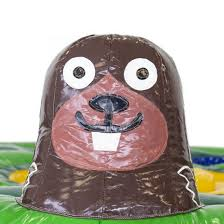
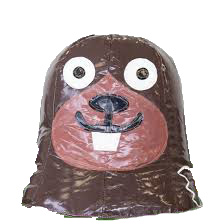
Images

diff --git a/website/css/style.css b/website/css/style.css
@@ -20,15 +20,18 @@ header{
     height: 120px;
 }
 
-li > img{
+.logo{
+    float: left;
+    margin: 10px;
+    height: 100px;
     width: 100px;
-    box-sizing: inherit;
-    display: flex;
-
 }
+
+
 
 li > a{
     color: white;
+    text-decoration:none;
 
 }
 
@@ -77,7 +80,7 @@ main{
 }
 
 section{
-    width: 1429.2px;
+    width: 100%;
     height: 407px;
     background: #D1D3E0;
     margin-top: 45px;
@@ -117,11 +120,15 @@ section4{
     align-items: center;
     overflow: hidden;
     border: 5px solid black;
-    width: 1809px;
+    width: 100%;
     margin-top: 45px;
     height: 50%;
+    
 }
  
+section4:hover{
+    cursor: url("assets/boris.jpg");
+}
 
 img:hover{
     transform: scale(1.05);

diff --git a/website/index.html b/website/index.html
@@ -10,9 +10,9 @@
 </head>
 <Body>
     <header id="header">
+        <img class="logo" src="images/logo.jpg" alt="">
         <nav>
             <ul>
-                <li><img class="logo" src="images/logo.jpg" alt=""></li>
                 <li><a href="https://www.youtube.com/">home</a></li>
                 <li>die andere</li>
                 <li>geschiedenis</li>
@@ -34,6 +34,7 @@
 
         <div>
             <section1>
+                <img src="images/herftst.svg" alt="">
                 <p>Maandag Gesloten
                     Dinsdag Gesloten
                     Woensdag 10.00 - 18.00 uur

diff --git a/website/app.js b/website/app.js
@@ -15,7 +15,7 @@ function run(){
     
     const img = document.createElement('img')
     img.classList.add('mole')
-    img.src = 'assets/mole2.jpg'
+    img.src = 'assets/mole2.webp'
 
     img.addEventListener('click', () => {
         score += 10
